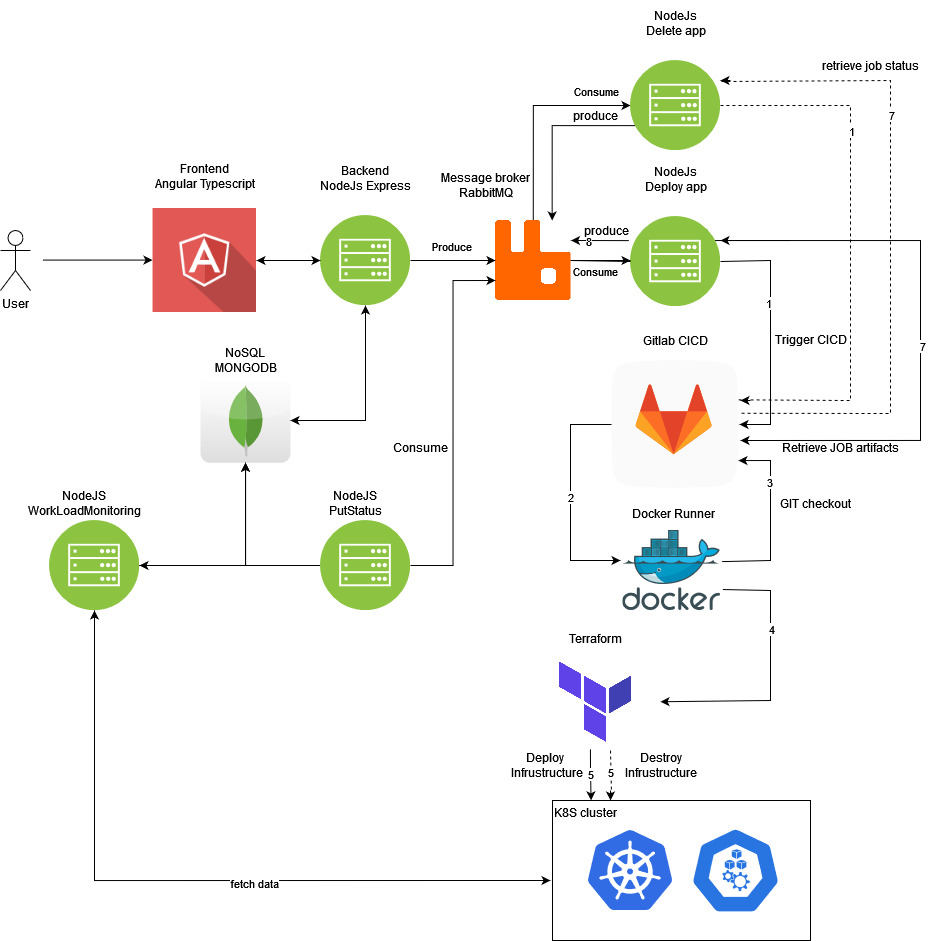
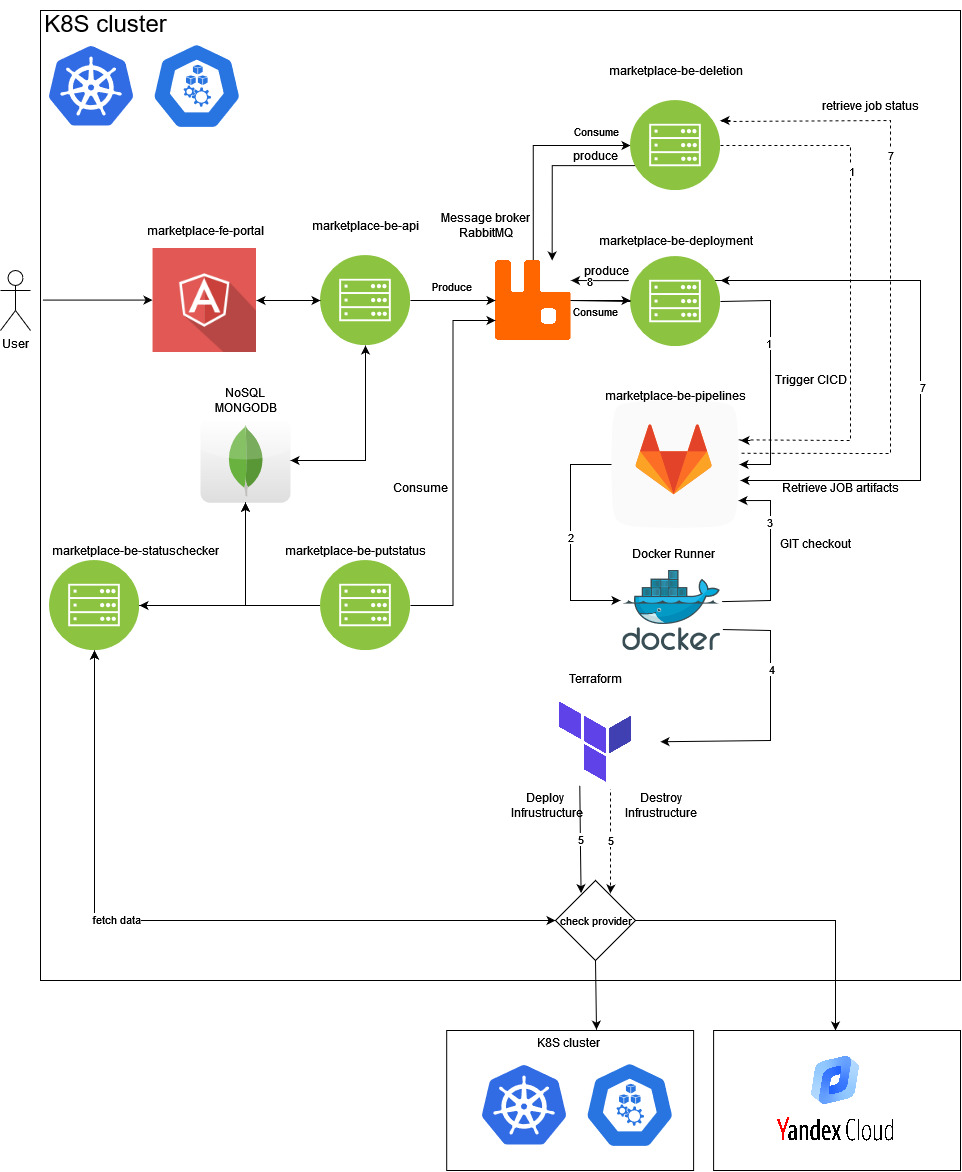
Update README.md, description/Untitled Diagram.drawio, description/Untitled Diagram.jpg

diff --git a/README.md b/README.md
@@ -3,6 +3,15 @@
 ## Trello:
 https://trello.com/b/FsUKff8K/marketplace
 
+## Repositories:
+* [marketplace-be-api](https://gitlab.com/effaceurs90/marketplace-be-api)
+* [marketplace-be-deletion](https://gitlab.com/effaceurs90/marketplace-be-deletion)
+* [marketplace-be-deployment](https://gitlab.com/effaceurs90/marketplace-be-deployment)
+* [marketplace-be-pipelines](https://gitlab.com/effaceurs90/marketplace-be-pipelines)
+* [marketplace-be-putstatus](https://gitlab.com/effaceurs90/marketplace-be-putstatus)
+* [marketplace-be-statuschecker](https://gitlab.com/effaceurs90/marketplace-be-statuschecker)
+* [marketplace-fe-portal](https://gitlab.com/effaceurs90/marketplace-fe-portal)
+
 ## Services:
 Ensure you patched deployed services in order to change the service type to NodePort.
 > kubectl patch service ${servicename} -n ${service_namespace} -p '{"spec": {"type": "NodePort"}}'
